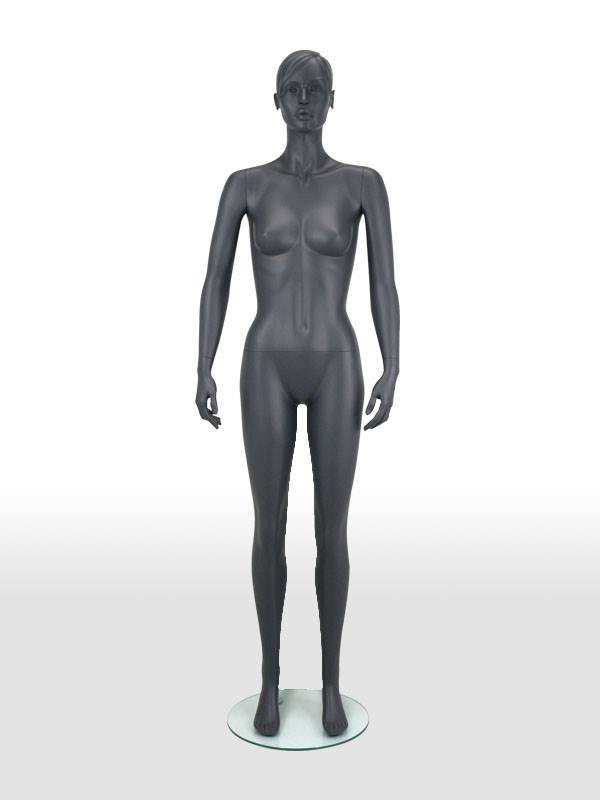
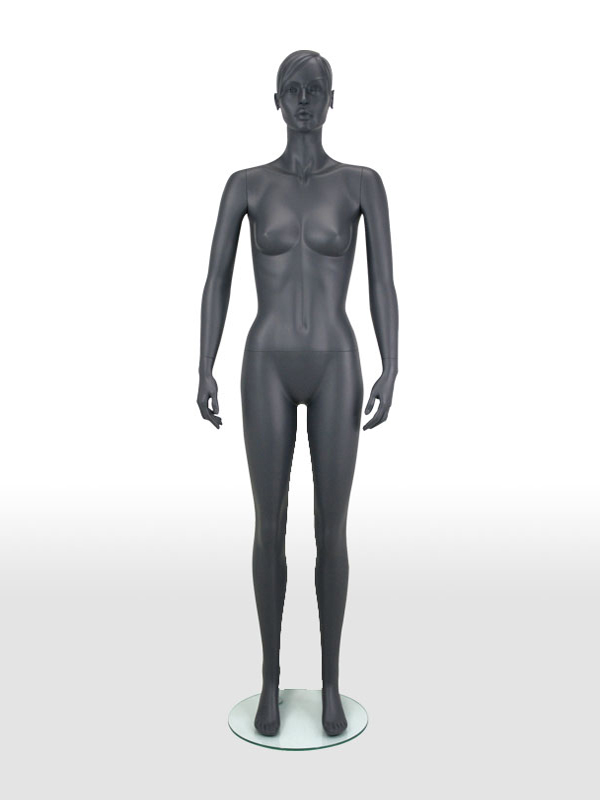
1er test swap pull

diff --git a/js/script.js b/js/script.js
@@ -6,31 +6,37 @@ $('#next-chest').click(function(){
     getImages('chest');
 });
 
+var i = 0;
 
 function getImages(zone) {
     
-    
     var dess = {};
     
+    var url = "http://localhost/hackathon-swap/test.json"/* + "/?" + zone*/;
     
-    var url = "http://192.168.10.63/woman/head"/* + "/?" + zone*/;
     
+    i++;
     
     $.get(url, function(){
      // alert("success");
     }, "json").done(function ( data ) {
-        alert("reponse success=" + data);
-        // exploiter la reponse
+        //alert("reponse success=" + data);
+        // EPLOIT RESPONSE
         dress = /*JSON.parse*/(data);
-        for (var i = 0; i < 5; i++) {
-            console.log(dress.name);
+        $('#chest img').remove();
+        
+        if (i == 5) {
+            i = 1;
+            $('#chest').append('<img src="' + dress[i].name + '">');
+        } else {
+            $('#chest').append('<img src="' + dress[i].name + '">');
         }
-    }).fail(function () {
-        alert("error");
-    }).always(function () {
-        alert("finished");
-    });
     
+    }).fail(function () {
+        //alert("error");
+    }).always(function () {
+        //alert("finished");
+    });
     
 }
     

diff --git a/index.html b/index.html
@@ -43,12 +43,12 @@
             </div>
 
             <div id="chest">
+                
                 <i id="next-chest" class="fa fa-2x fa-arrow-right" aria-hidden="true"></i>
-                <img src="images/chemise1.png" alt="">
             </div>
 
             <div id="pants">
-                <img src="images/pentalon1.png" alt="">
+                <img src="images/pentalon2.png">
             </div>
 
             <div id="shoes">

diff --git a/css/style.css b/css/style.css
@@ -125,8 +125,9 @@ header a {
    ========================================================================== */
 
 section {
+    margin: 0 auto;
     height: 90vh;
-    background-image: url(../images/mannequin.jpg);
+    background-image: url(../images/mannequin1.jpg);
     background-size: cover;
     background-position: center center;
 }
